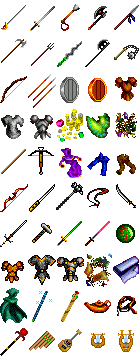
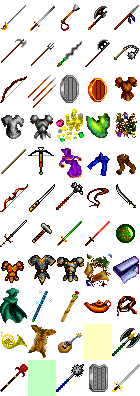
New preset item graphics by ADoS - Also a new ship graphic which is currently unused.

diff --git a/src/scenedit/scen.keydlgs.cpp b/src/scenedit/scen.keydlgs.cpp
@@ -166,7 +166,7 @@ pic_num_t choose_graphic(short cur_choice,ePicType g_type,cDialog* parent) {
 		case PIC_DLOG: total_pics = 44; break;
 		case PIC_TALK: total_pics = 84; break;
 		case PIC_SCEN: total_pics = 30; break;
-		case PIC_ITEM: case PIC_TINY_ITEM: total_pics = 134; break;
+		case PIC_ITEM: case PIC_TINY_ITEM: total_pics = 139; break;
 		// TODO: Include small monster graphics in the PC pic picker
 		case PIC_PC: total_pics = 36; break;
 		case PIC_FIELD: all_pics = field_pics; break;
